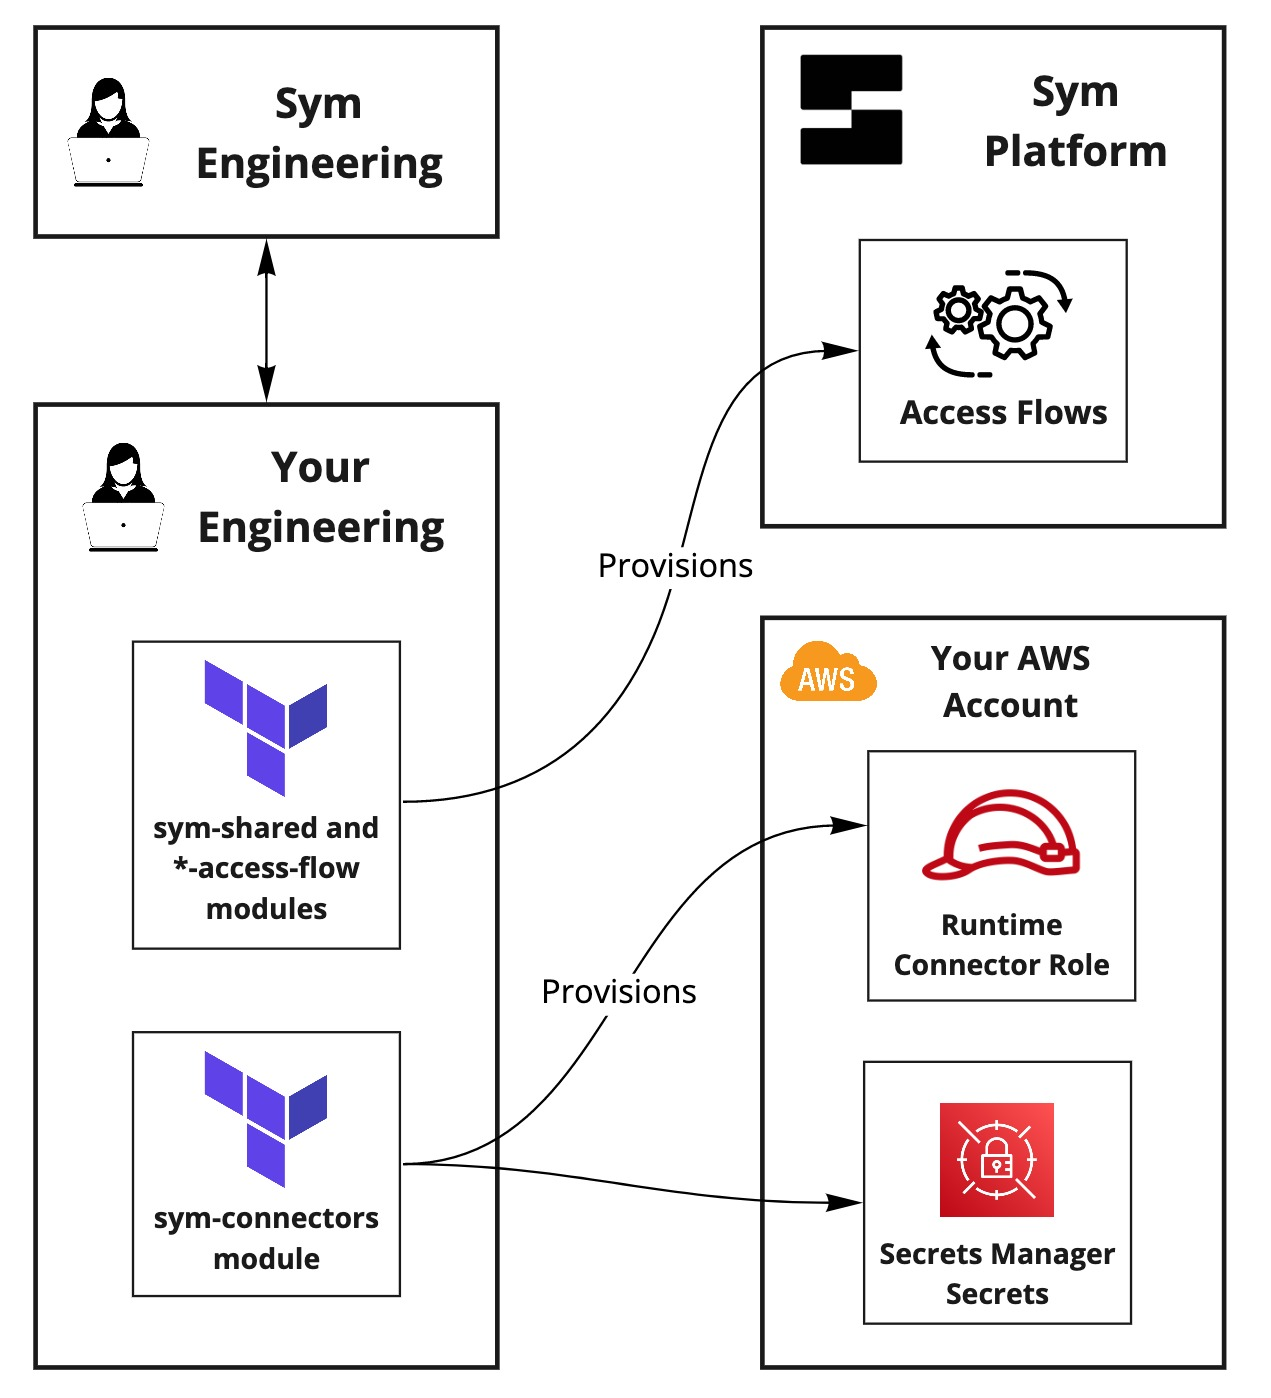
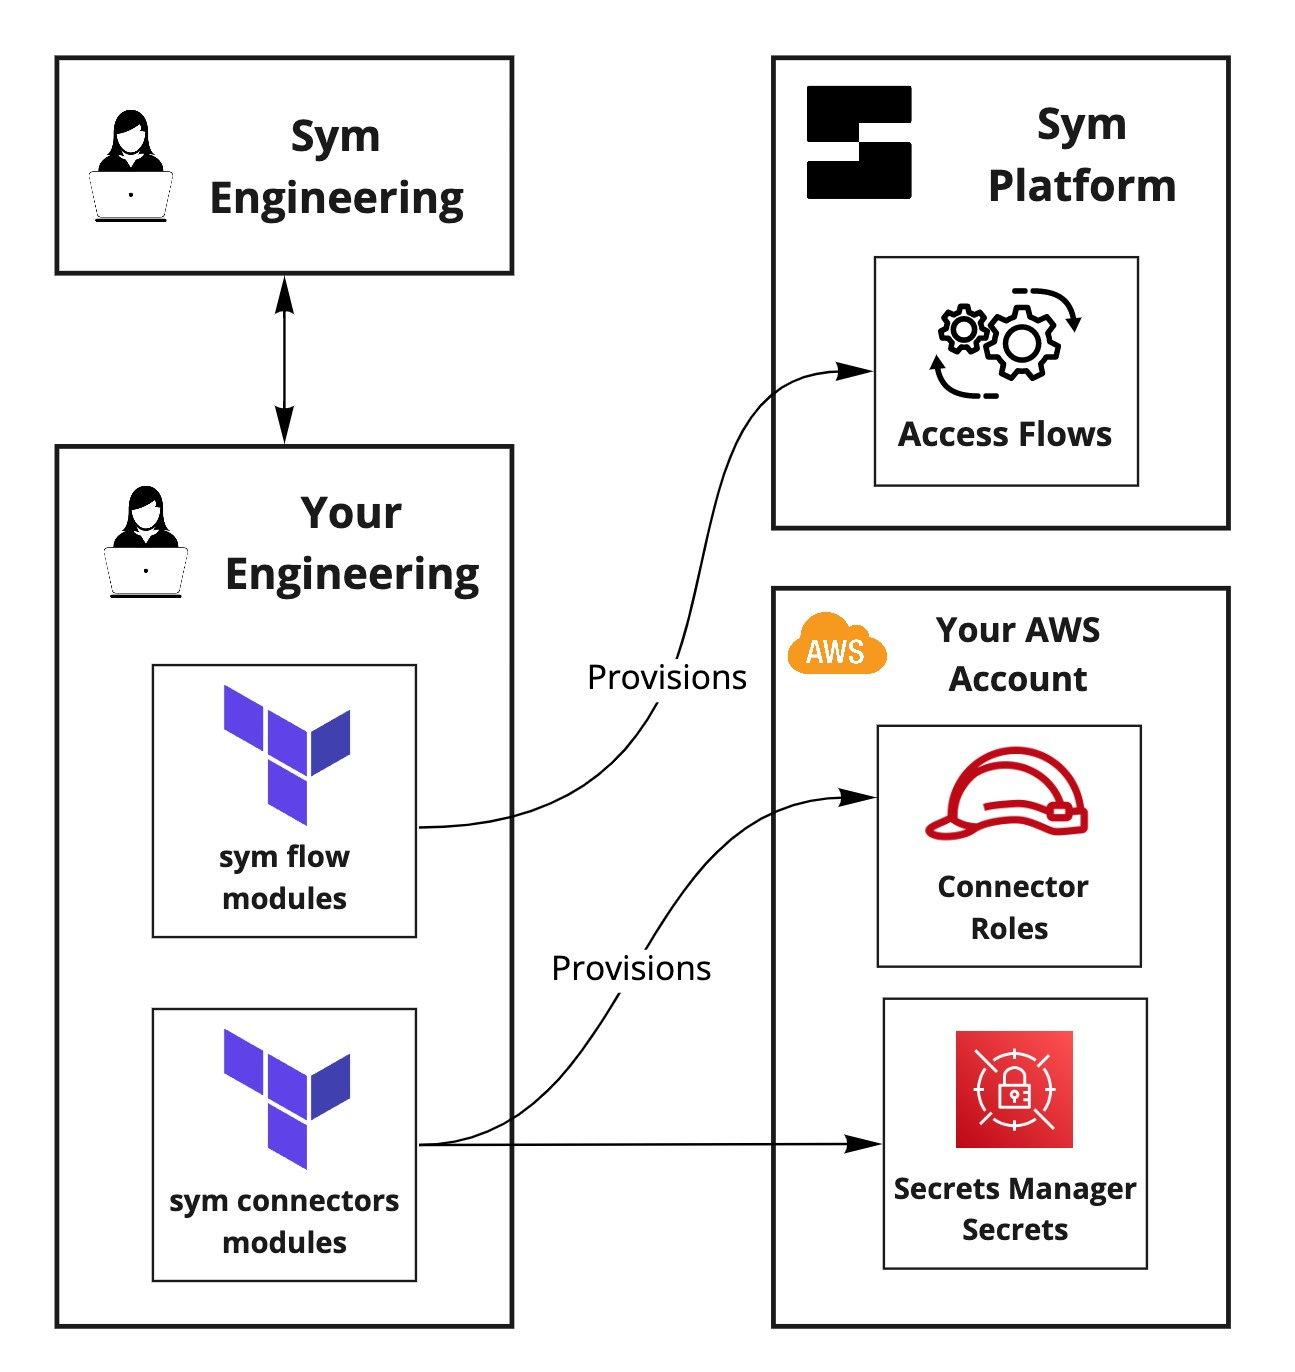
Rename sym-connectors to sym-aws-connectors

diff --git a/README.md b/README.md
@@ -80,8 +80,8 @@ Once you've got the E2E Okta workflow implemented, here are some next steps to c
 * Update your workflow to require that users be members of a certain Okta group to approve access:
   1. Configure `flow_vars.approver_group` with the Okta group ID in [`terraform.tfvars`](app/terraform.tfvars).
   2. Uncomment the `hook` annotation on the `on_approve` method in [`impl.py`](modules/okta-access-flow/impl.py).
-     this is just one example of what you can do with [hooks in the SDK!](https://docs.symops.com/docs/handlers)
-* Manage [end-users](https://docs.symops.com/docs/manage-users). Sym tries to handle this automatically but you can use the `symflow` CLI to configure user mappings.
+     This is just one example of what you can do with [hooks in the SDK!](https://docs.symops.com/docs/handlers)
+* Manage [end-users](https://docs.symops.com/docs/manage-users). Sym handles the "happy path" where user emails match across systems automatically. You can use the `symflow` CLI to configure user mappings when required.
 * Iterate on your flow logic. Maybe change things to allow self-approval only for on-call users?
 * Set up another access flow!
 
@@ -103,13 +103,13 @@ The RuntimeConnector module ensures that we use an [external id](https://docs.aw
 
 ## Modules
 
-Your engineers provision resources in both AWS and Sym. The modules are factored to keep the Sym and AWS resources managed independently.
+Your engineers provision resources in both AWS and Sym. The modules are factored to keep the AWS and Sym resources managed independently.
 
 ![Provisioning Flow](docs/SymProvisioningFlow.jpg)
 
-### sym-connectors module
+### sym-aws-connectors module
 
-The [`sym-connectors`](modules/sym-connectors) module contains the AWS resources that Sym flows depend upon.
+The [`sym-aws-connectors`](modules/sym-aws-connectors) module contains the AWS resources that Sym flows depend upon.
 
 ### sym-shared module
 
